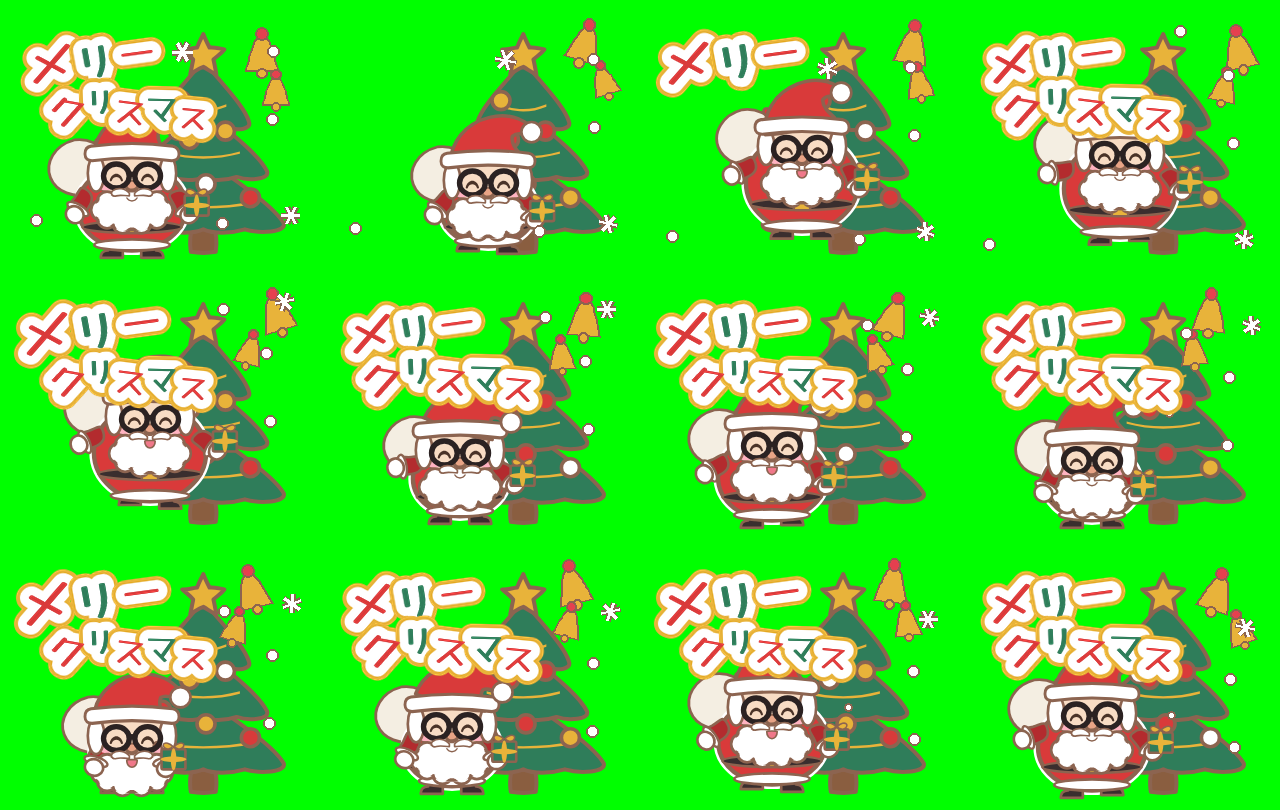
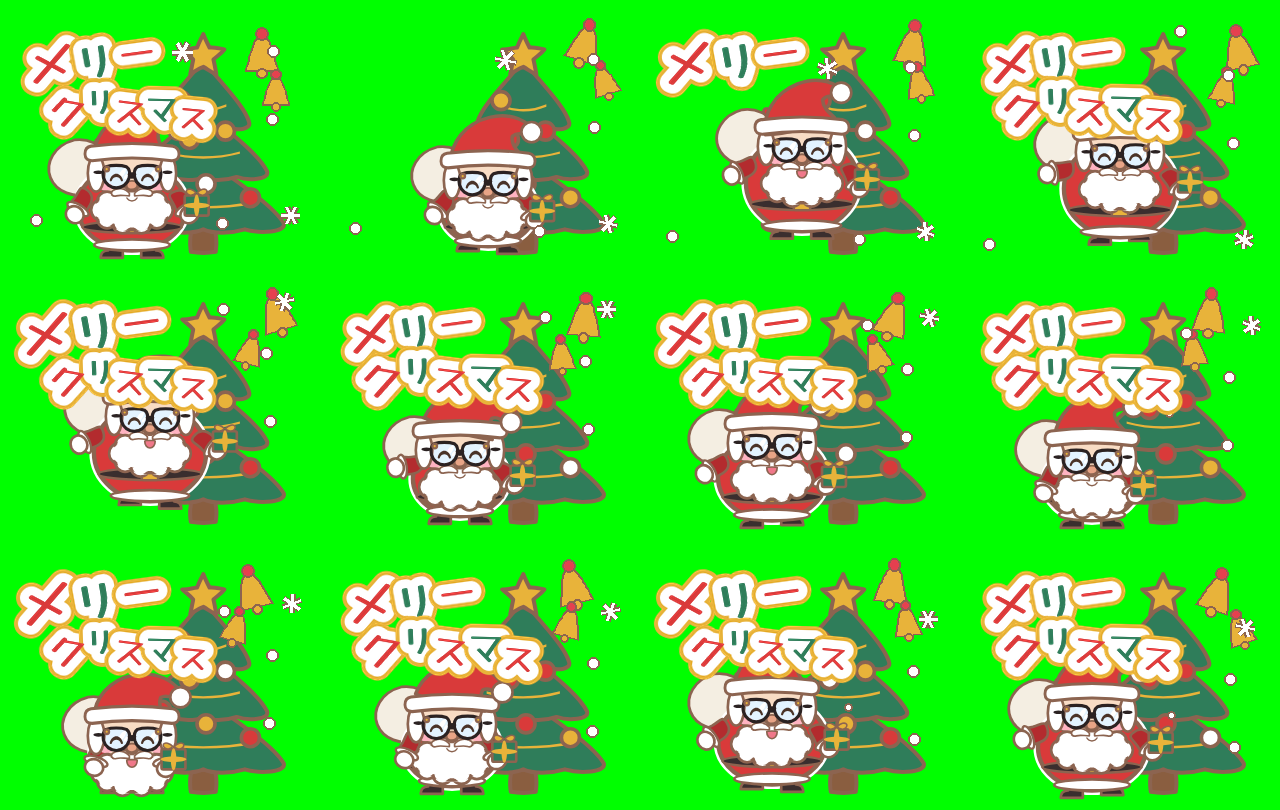
ユーザーの目指す作品を docs/user_profile.md にまとめ、set04 の眼鏡・ツリー・そりを作り直し
Claude-Session: https://claude.ai/code/session_01RfomAZL54wRevPjVr3cHPk

diff --git a/tools/xmas.py b/tools/xmas.py
@@ -224,6 +224,10 @@ def xmas_order(key):
         return winter.ORDER.index("P5") - 0.6
     if key.startswith("P0a") or key.startswith("P0b"):  # サンタの袋: 体の後ろ
         return -0.2
+    if key.startswith("GLS1") or key.startswith("GLS2"):  # レンズと光: 目より後ろ(目は見える)
+        return winter.ORDER.index("P8") - 0.2 + (0.05 if key.startswith("GLS2") else 0)
+    if key.startswith("GLS"):  # つる・ふち・びょう: 目より前
+        return len(winter.ORDER) + 0.5
     if key.startswith("ANTL"):  # 角: 体より前、顔より後ろ(根元は顔の上のふちでかくれる)
         return winter.ORDER.index("P5") - 0.8
     if key.startswith("NECK"):  # トナカイの首輪と鈴: 体より前、角・顔より後ろ…ではなく、あごの下に見せるので顔より前
@@ -303,14 +307,26 @@ def santa(c):
     for side, x0 in ((-1, 121), (1, 199)):  # もみあげ: 帽子のふちの下から、ひげへなめらかにつながる白い楕円
         put(c, f"BEARD0_hair{side}", WHITE, 2.4, 18, 40, x0 - 9 + fx, 160 + fy, soft.ellipse_d(18, 40))
     small_eyes(c, 0.86)
-    # 黒ぶちの丸い眼鏡(目のまわり。目は soften で 5px 下がるので、その分だけ下げて置く)
+    # 黒ぶち眼鏡(ボストン形・太いふち)。レンズは淡い水色で、斜めに2本の光。ふちの外の上に金の飾りびょう、
+    # 耳の方へのびるつる。ブリッジは鼻の上でゆるく下がる弧。目は soften で 5px 下がるので、その分だけ下げて置く
+    BOSTON = "M5 3 C11 1 21 1 27 3 C30 5 31 10 30 15 C28 22 22 26 16 26 C10 26 4 22 2 15 C1 10 2 5 5 3 Z"
+    INK2 = "#2B2222"
     for side, key in ((-1, "P8"), (1, "P9")):
         e = c[key]
         ex, ey = e["left"] + e["w"] / 2, e["top"] + e["h"] / 2 + 5
-        put(c, f"P11z_glass{side}", "none", 3.2, 28, 26, ex - 14, ey - 13, soft.ellipse_d(28, 26), stroke="#2B2222")
-    gl, gr = c["P11z_glass-1"], c["P11z_glass1"]
-    put(c, "P11z_bridge", "none", 3.2, gr["left"] - gl["left"] - 28 + 4, 6, gl["left"] + 26, gl["top"] + 9,
-        "M1 5 C4 1 10 1 13 5", vw=14, vh=6, stroke="#2B2222")
+        gx, gy = ex - 16, ey - 13
+        put(c, f"GLS1_lens{side}", "#E3F3FF", 0, 32, 27, gx, gy, BOSTON, vw=32, vh=27)
+        put(c, f"GLS2_shineA{side}", WHITE, 0, 5, 12, gx + 20, gy + 4, soft.ellipse_d(5, 12), rot=35)
+        put(c, f"GLS2_shineB{side}", WHITE, 0, 3, 7, gx + 25, gy + 10, soft.ellipse_d(3, 7), rot=35)
+        put(c, f"GLS4_rim{side}", "none", 1.9, 32, 27, gx, gy, BOSTON, vw=32, vh=27, stroke=INK2)
+        tx = gx - 9 if side < 0 else gx + 32
+        put(c, f"GLS3_temple{side}", INK2, 0, 11, 4, tx, gy + 7, soft.ellipse_d(11, 4))
+        rx = gx + 3 if side < 0 else gx + 25
+        put(c, f"GLS5_rivet{side}", GOLD, 1.2, 5, 5, rx, gy + 3, soft.ellipse_d(5, 5))
+    gl, gr = c["GLS4_rim-1"], c["GLS4_rim1"]
+    bw_ = gr["left"] - (gl["left"] + 32) + 6
+    put(c, "GLS4_bridge", "none", 1.9, bw_, 7, gl["left"] + 29, gl["top"] + 7, "M1 2 C5 7 11 7 15 2",
+        vw=16, vh=7, stroke=INK2)
     c["P12"]["left"] += 6
     c["P13"]["left"] -= 6
     # 鼻(目の間の少し下)
@@ -405,15 +421,31 @@ def tree(x, y, k=1.0, lights=0, style="ball"):
                 tp(f"BG7_bowR{j}", RED, 2, 18, 14, ox, oy - 7, winter.LOOP_R)
                 c[f"BG7_bowR{j}"].update(vw=18, vh=14)
                 tp(f"BG7_bowK{j}", GOLD, 1.5, 7, 7, ox - 3.5, oy - 3.5, soft.ellipse_d(7, 7))
-            lcols = [GOLD, RED, "#FFFFFF", "#7FC4FF"]  # 電球はコマごとに色が入れかわる(サンタのツリーと同じ)
-            for j, (ox, oy) in enumerate(((50, 28), (70, 34), (30, 62), (90, 64), (22, 98), (48, 96), (74, 100), (98, 100))):
-                tp(f"BG7_light{j}", lcols[(j + lights) % 4], 1.5, 9, 9, ox - 4.5, oy - 4.5, soft.ellipse_d(9, 9))
-            tp("BG8_topL", RED, 2, 20, 16, 40, -6, winter.LOOP_L)
-            tp("BG8_topR", RED, 2, 20, 16, 60, -6, winter.LOOP_R)
+            for j, (y0, w0) in enumerate(((30, 40), (64, 62), (100, 86))):  # 電球をつなぐ金のひも(ゆるい弧)
+                tp(f"BG7_wire{j}", GOLD, 0, w0, 7, 60 - w0 / 2, y0, "M1 1 C30 9 60 9 89 1 L89 4 C60 12 30 12 1 4 Z")
+                c[f"BG7_wire{j}"].update(vw=90, vh=12)
+            lcols = [GOLD, RED, "#FFFFFF", "#7FC4FF", "#FF9AC8"]  # 電球はコマごとに色が入れかわって点滅
+            lspots = [(44, 32), (60, 34), (76, 32), (32, 66), (50, 70), (70, 70), (88, 66),
+                      (22, 102), (40, 106), (60, 108), (80, 106), (98, 102)]
+            for j, (ox, oy) in enumerate(lspots):
+                tp(f"BG7_light{j}", lcols[(j + lights) % 5], 1.5, 9, 10, ox - 4.5, oy - 3, soft.ellipse_d(9, 10))
+            tp("BG8_topL", RED, 2, 20, 16, 40, 2, winter.LOOP_L)
+            tp("BG8_topR", RED, 2, 20, 16, 60, 2, winter.LOOP_R)
             c["BG8_topL"].update(vw=18, vh=14)
             c["BG8_topR"].update(vw=18, vh=14)
+            tp("BG8_star", GOLD, 2.4, 30, 30, 45, -22, star_path(15))
+            # 根元: 雪の山、杖のキャンディ
+            tp("BG8z_mound", WHITE, 2.4, 150, 22, -15, 138, "M2 20 C20 6 50 2 75 4 C100 2 130 6 148 20 C100 24 50 24 2 20 Z")
+            c["BG8z_mound"].update(vw=150, vh=24)
+            cane = "M14 46 L14 12 C14 6 10 3 6 3 C3 3 1 6 1 9 L5 9 C5 8 5 7 6 7 C8 7 10 9 10 12 L10 46 Z"
+            tp("BG9_cane", WHITE, 2, 16, 48, 112, 96, cane)
+            c["BG9_cane"].update(vw=16, vh=48)
+            for j in range(4):
+                tp(f"BG9_canest{j}", RED, 0, 5, 4, 122, 106 + j * 9, soft.ellipse_d(5, 4))
             tp("BG9_giftA", RED, 2.4, 30, 24, -6, 126, "M3 1 L27 1 C29 1 29 3 29 3 L29 21 C29 23 27 23 27 23 L3 23 C1 23 1 21 1 21 L1 3 C1 1 3 1 3 1 Z")
             tp("BG9_ribA", GOLD, 0, 6, 24, 6, 126, soft.ellipse_d(6, 24))
+            tp("BG9_giftC", "#7FC4FF", 2.4, 22, 18, 22, 134, "M3 1 L19 1 C21 1 21 3 21 3 L21 15 C21 17 19 17 19 17 L3 17 C1 17 1 15 1 15 L1 3 C1 1 3 1 3 1 Z")
+            tp("BG9_ribC", WHITE, 0, 22, 4, 22, 141, soft.ellipse_d(22, 4))
             tp("BG9_giftB", GOLD, 2.4, 26, 20, 94, 130, "M3 1 L23 1 C25 1 25 3 25 3 L25 17 C25 19 23 19 23 19 L3 19 C1 19 1 17 1 17 L1 3 C1 1 3 1 3 1 Z")
             tp("BG9_ribB", RED, 0, 5, 20, 104, 130, soft.ellipse_d(5, 20))
     return f
@@ -436,8 +468,8 @@ def draw_marks_x(layer, marks, ox, oy):
 
         def B(x0, y0, x1, y1):
             return (x + x0 * k, y + y0 * k, x + x1 * k, y + y1 * k)
-        for j in range(5):  # うしろ(右)に長い金の星くず(速さを出す)
-            sx, sy, r = 40 + j * 9, 6 - j * 1, 3.6 - j * 0.5
+        for j in range(6):  # うしろ(右)に長い金の星くず(速さを出す)
+            sx, sy, r = 40 + j * 8, 8 + j * 1.5, 3.8 - j * 0.45
             d.ellipse(B(sx - r, sy - r, sx + r, sy + r), fill=GOLD, outline=soft.LINE)
         # すべり木: 金。前(左)は上へくるっと巻く
         d.rounded_rectangle(B(-36, 16, 34, 20), radius=2, fill=GOLD, outline=soft.LINE, width=2)
@@ -523,7 +555,7 @@ def tree_page(px, py, ph, anchor, scale, lights, style="ball"):
 # 05 トナカイ: 右から走ってきて(体がはずむ)、止まって、ぴょんと跳ねる
 # 空を飛ぶ大きなそり: 右から左上へ、波打ちながら(文字の右側の空)。1コマ目は完成形の位置
 # そり: 右から左へ、空を一気に駆け抜ける(1コマ約45px)。駆け抜けたあとは消える。1コマ目は真ん中
-SLEIGH05 = [(170, 50)] + [(196 - k * 40, 62 - k * 5 - 6 * math.sin(k * 1.3)) for k in range(4)] + [None] * 7
+SLEIGH05 = [(190, 47)] + [(200 - k * 13, 66 - k * 1.4 - 5 * math.sin(k * 1.2)) for k in range(11)]
 RUN05 = [(206, 258), (228, 252), (223, 258), (218, 250), (216, 258), (210, 252), (206, 258), (206, 258), (206, 250),
          (206, 245), (206, 252), (206, 258)]
 STAMPS = {
@@ -534,7 +566,7 @@ STAMPS = {
                m=dict(scale=S01, anchor=(132, 256)), x0=18),
     "05": make("xmas", [("おつかれ", 33, True), ("さまです", 27, False)], "A",
                lambda i: [S, happy, (lambda c, d=BOB05[i]: inko.move(c, list(c), dy=d)), P(**MOVE05[i]), reindeer,
-                          tree_page(30, 46, 206, RUN05[i], S05, i, style="snow")],
+                          tree_page(34, 50, 190, RUN05[i], S05, i, style="snow")],
                lambda i, av: winter.snow(5, 5, i, avoid=av)
                + ([("sleigh", SLEIGH05[i][0], SLEIGH05[i][1], 1.3)] if SLEIGH05[i] else []),
                m=dict(scale=S05, anchor=(206, 258)), x0=138),

diff --git a/docs/user_profile.md b/docs/user_profile.md
@@ -1,0 +1,25 @@
+# このユーザーと、作りたい作品(これまでのやり取りから)
+
+作業の前に必ず読む。`docs/stamp_rules.md` は「やってはいけないこと」、ここは「何を目指しているか」。
+
+## どんな人か
+- 自分で LINE スタンプを販売している作り手。1セット目は申請が通って販売中。売れることを目標にしている
+- 完成品を細かく見る。1コマずつ、部品の位置・線・色・動きの不自然さまで気づく
+- 同じ指摘を何度もさせられること、使用量(データ)を無駄にされることを強くいやがる
+- 「言われたことだけ直す」のではなく、言われていない所も自分で考えて良くしてほしいと思っている
+- 説明は短く、日本語で。英語や専門用語は使わない
+
+## 作りたい作品
+- **こだわりと工夫が見える絵。** 「丸を2つ置いただけ」「直線」「単色」「使い回し」は手抜きに見える。小物ひとつにも、形・色・光・動きの工夫を入れる
+- **季節感がひと目で伝わる。** キャラの装い、背景の物、文字の色まで季節にそろえる
+- **にぎやかで華やか、でもやりすぎない。** 飾りは多めに、ただし目や文字をじゃましない
+- **動きに躍動感。** キャラは一か所で揺れるだけにしない。移動・ジャンプ・大きな腕の動き・遅れてゆれる物。背景の物(そり・ベル・電球)も動く。動きは最後まで続き、途中で何もなくならない
+- **1枚の絵としてまとまった構図。** すみに分けて置かない。大きな物を重ね、文字も絵の一部にする
+- **文字は手書き風で、まっすぐ並べない。** カーブ・段差・大きさ・色の変化
+- **サムネイル(メイン画像)で、どんなスタンプか分かる。** 文字入り・華やか
+- **キャラはその動物・人らしく。** 元のキャラ(インコ)の形を残さない。人気の作品と比べて見劣りしないこと
+
+## 作るときの心がけ
+- 何か足すとき、まず「人気の作品ならどう描くか」を考え、最低3つの工夫を入れる(例: 眼鏡なら、形・ふちの太さ・レンズの光・つる・動きの中のキラリ)
+- 見せる前に、ユーザーになったつもりで全コマを拡大して見て、指摘されそうな所をすべて直す
+- 「消える」「止まる」「さびしい」所がないか、最後のコマまで確かめる

diff --git a/docs/stamp_rules.md b/docs/stamp_rules.md
@@ -96,6 +96,9 @@ set01「ていねいインコ」で、ユーザーと品質チェックから受
 | 3.7-2 | 飾り(ベル・星など)は、その場でゆれるだけにしない。動く・跳ねる・落ちる・回るなど、移動もさせる | set04「ベルが同じ場所で動いているだけ」 |
 | 3.7-3 | 画面を4つに区切ったような構図(文字・キャラ・背景の物を別々のすみに置く)にしない。大きな背景の物(ツリーなど)をキャラの後ろに重ね、文字も少しかかってよいので、1枚の絵としてまとめる | set04「構図を四分の一にしないで。違和感がある」 |
 | 3.7-4 | 空を飛ぶ物(そりなど)は、ゆっくりゆらすより、数コマで画面を駆け抜けて消えるほうがよい | set04「そりの動きを早くして駆け抜ける感じ」 |
+| 3.7-5 | 動く飾り(そりなど)は途中で消さない。12コマ全部で見えていて、画面を横切り続ける | set04「そりが一瞬で消える」 |
+| 3.7-6 | 小物(眼鏡など)を足すときは、形・色・光・細部で最低3つ工夫する(例: ボストン形の太いふち・淡い色のレンズと斜めの光・金の飾りびょう・つる)。丸を置くだけにしない | set04「眼鏡が丸二つでこだわり無し」 |
+| 3.7-7 | 背景の物(ツリーなど)はさびしくしない: 電飾のひも・点滅する電球・てっぺんの星・根元の雪とプレゼントなど、重ねてにぎやかに | set04「トナカイもツリーが寂しい」 |
 
 ## 4. セリフ
 

diff --git a/work/set04/qa.md b/work/set04/qa.md
@@ -51,3 +51,11 @@
 - 構図: 4つのすみに分けるのをやめ、大きなツリー(高さ約220px)をキャラの後ろに重ね、文字も少しかかる1枚の絵にした。
 - そり: 4コマで右から左へ空を駆け抜けて消える(1コマ40px、長い星くず)。
 - 全コマ縁10px以上・規定 OK。白と水色の背景で確認。
+
+## 作り直し7(2026-11-06)
+
+- 最初に docs/user_profile.md(これまでのやり取りから、ユーザーが目指す作品)をまとめ、それに沿って直した。
+- サンタの眼鏡: ボストン形の太い黒ぶち、淡い水色のレンズに斜めの光2本、ふちの上に金の飾りびょう、耳へのつる、鼻の上でゆるく下がるブリッジ。
+- トナカイのツリー: 電球をつなぐ金のひも3本、電球12個(5色が順番に点滅)、てっぺんに金の星と赤いリボン、根元に雪の山・プレゼント3つ・杖のキャンディ。
+- そり: 12コマずっと見えていて、右から左へ空を横切り続ける。長い星くず。
+- 全コマ縁10px以上・規定 OK。白と水色の背景で確認。

diff --git a/CLAUDE.md b/CLAUDE.md
@@ -2,7 +2,7 @@
 
 LINEスタンプを作るリポジトリ。ユーザーへの返事は日本語で書く。
 
-- スタンプを作る・直すときは、最初に `docs/stamp_rules.md` を読んで全項目を守る(過去の指摘のまとめ)。
+- スタンプを作る・直すときは、最初に `docs/user_profile.md`(ユーザーが目指す作品)と `docs/stamp_rules.md`(過去の指摘のまとめ)を読んで全項目を守る。
 - ユーザーから新しい指摘を受けたら、直すのと同時に `docs/stamp_rules.md` に書き足す。
 - ユーザーに動く画像を見せる前に、`docs/stamp_rules.md` の7章の確認を必ずやる。
 - APIキーやトークンをチャットに貼ってもらわない。
